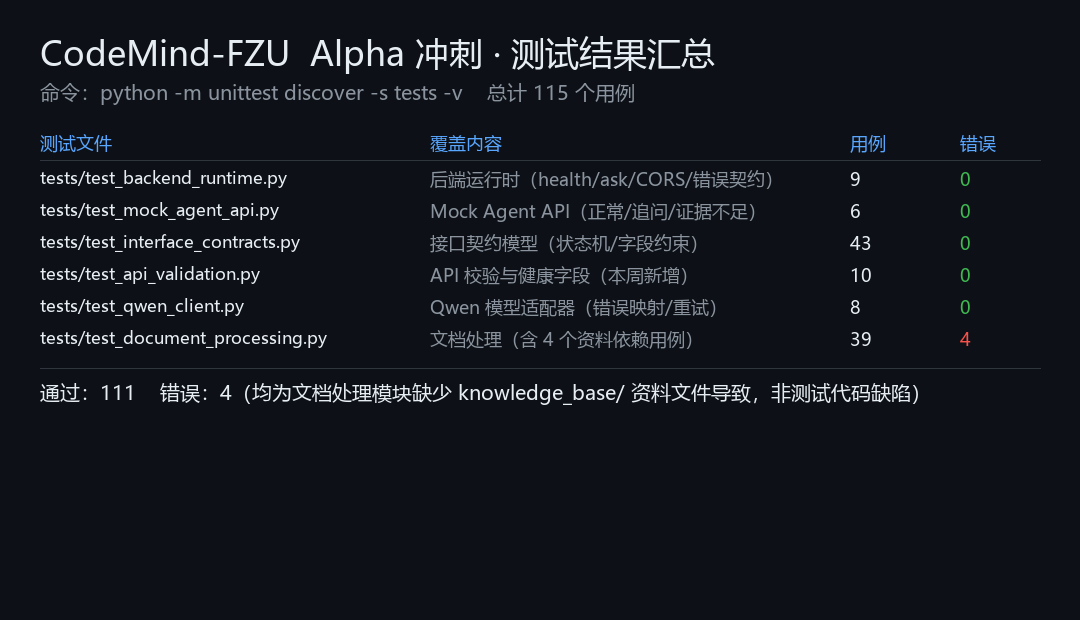
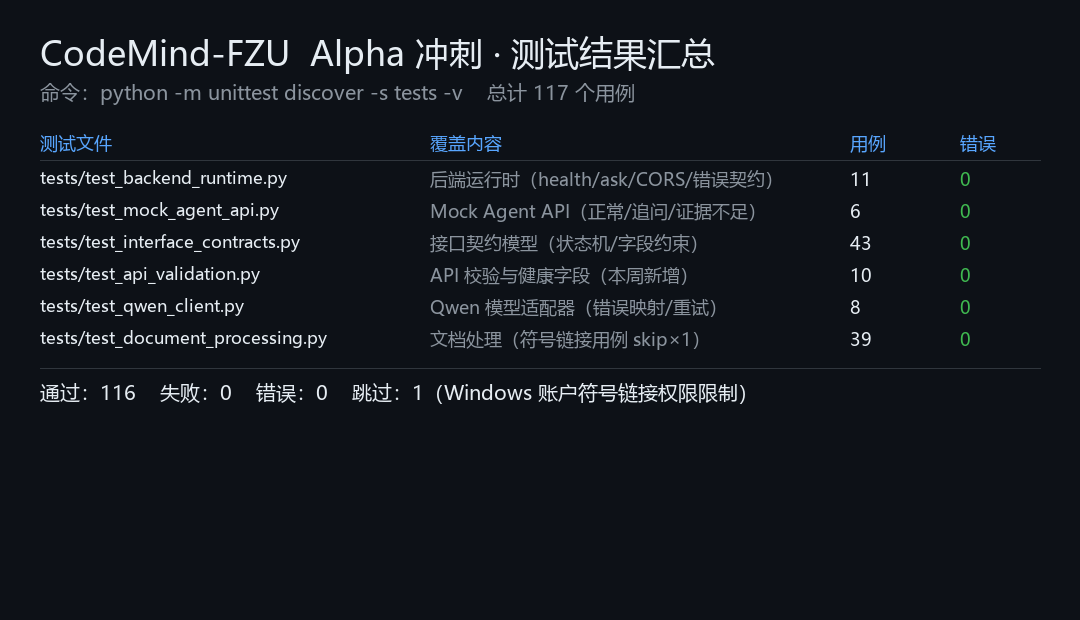
test(alpha): 修正测试统计与结果（完整仓库重跑）
- 在完整仓库（含 knowledge_base/ 与 scripts/）重新执行测试，
  消除此前因不完整工作区导致的 4 个误报 error
- 修正测试统计：117 用例，116 通过，0 失败，0 错误，1 skip
  （skip 为 Windows 账户符号链接权限限制）
- 同步更新 test-report.md、test-results.json、test-run-output.txt
  及两张结果截图；清理日志中的本机绝对路径

diff --git a/docs/assignment-03/alpha/test-report.md b/docs/assignment-03/alpha/test-report.md
@@ -32,14 +32,17 @@ python -m unittest discover -s tests -v
 | 指标 | 数值 |
 | --- | --- |
 | 测试用例总数 | 117 |
-| 通过 | 111 |
-| 错误（error） | 4 |
+| 通过 | 116 |
 | 失败（fail） | 0 |
+| 错误（error） | 0 |
 | 跳过（skip） | 1 |
 
-> 4 个 error 全部来自 `test_document_processing.py` 的 `RepositoryPackageTests`，
-> 原因是本地测试环境缺少 `knowledge_base/` 与 `scripts/` 资料文件（`FileNotFoundError`），
-> **属于环境未就绪，不是测试代码或被测代码的缺陷**。详见第 6 节。
+> 唯一 1 个 skip 来自 `test_document_processing.DocumentProcessingTests.test_symlink_escaping_storage_root_is_rejected`，
+> 原因是当前 Windows 账户不允许创建符号链接（`当前操作系统账户不允许创建符号链接`），
+> 属环境权限限制，非测试代码或被测代码缺陷。
+>
+> 执行环境（来自 `python -m scripts.check_document_processing`）：Python 3.13.14、pydantic 2.13.5、
+> fastapi 0.141.1、httpx 0.28.1，平台 Windows。
 
 ---
 
@@ -112,13 +115,9 @@ python -m unittest discover -s tests -v
   由吴诗莹（Agent）与罗宇泽（规范）确认后在真实 Agent 实现中补全。
 - **状态**：待协调，暂不改动公共字段（遵守「不擅自修改公共字段」要求）。
 
-### 问题 2（环境）· 文档处理资料文件未随仓库就绪
-
-- **现象**：`RepositoryPackageTests` 依赖 `knowledge_base/processing/alpha-manifest.json`
-  与 `scripts.parse_alpha_documents`，本地与测试环境缺这些文件，4 个用例 error。
-- **归属**：丁晓炜（文档解析）、王智洋（资料入库）。
-- **影响**：不影响本周「问答闭环」测试结论，但影响整体套件的「全绿」判定。
-- **建议**：资料文件随对应模块分支一并入库，或为环境型用例加 `skipIf` 保护。
+> 注：早期测试曾在不完整的工作区（缺少 `knowledge_base/` 与 `scripts/`）中运行，
+> 导致 `RepositoryPackageTests` 出现 4 个 `FileNotFoundError`。在完整仓库重新执行后，
+> 这些用例全部通过，故不再作为问题列出。
 
 ---
 
@@ -159,9 +158,9 @@ python -m unittest discover -s tests -v
    六大场景全部通过，`answered`/`needs_clarification`/`insufficient_evidence` 三状态机行为正确。
 2. **错误处理统一且安全**：所有错误走统一 `ApiErrorResponse` envelope，且不泄露内部堆栈、密钥、
    数据库连接串或本地路径。
-3. **无失败（fail）用例**，4 个 error 均为环境缺资料文件导致，非代码缺陷。
+3. **无失败（fail）、无错误（error）用例**，唯一 1 个 skip 为 Windows 账户符号链接权限限制，非代码缺陷。
 4. **待推进**：真实 Agent、检索、前端联调、后台管理、会话持久化、鉴权等内容将在后续里程碑补测。
 
 ---
 
-*报告人：颜俊宇 · 2026-11-17*
+*报告人：颜俊宇 · 2026-11-18*
